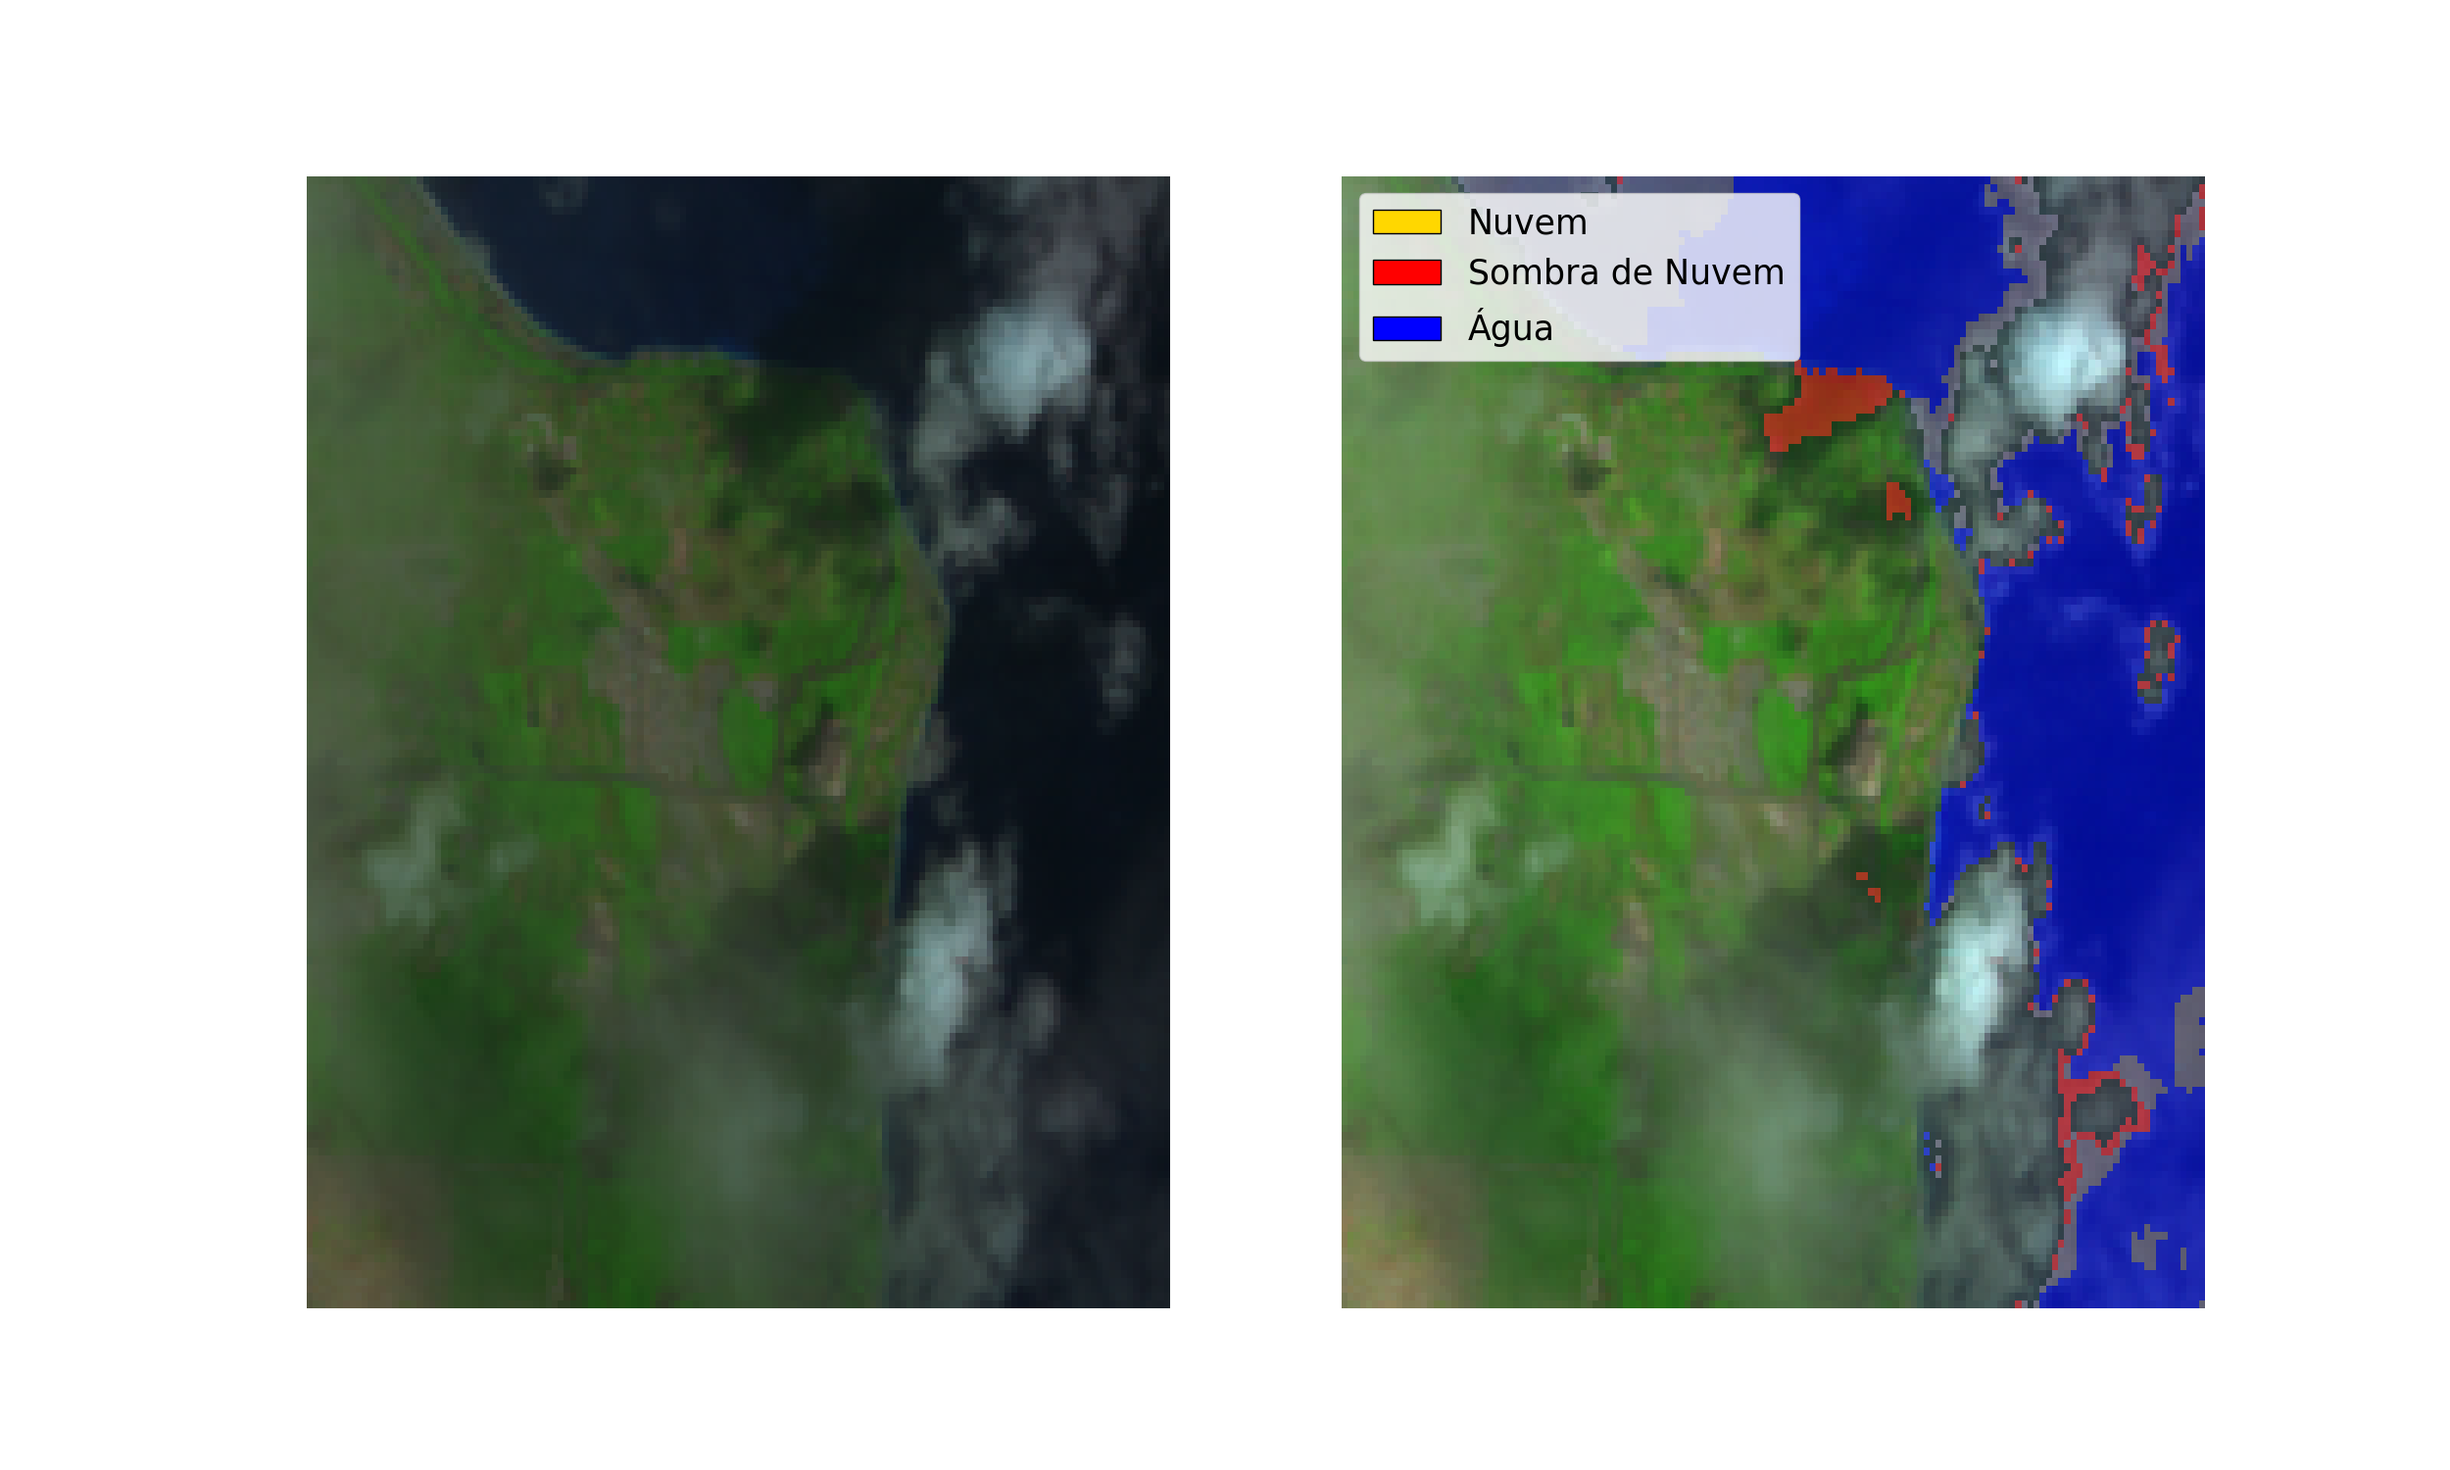
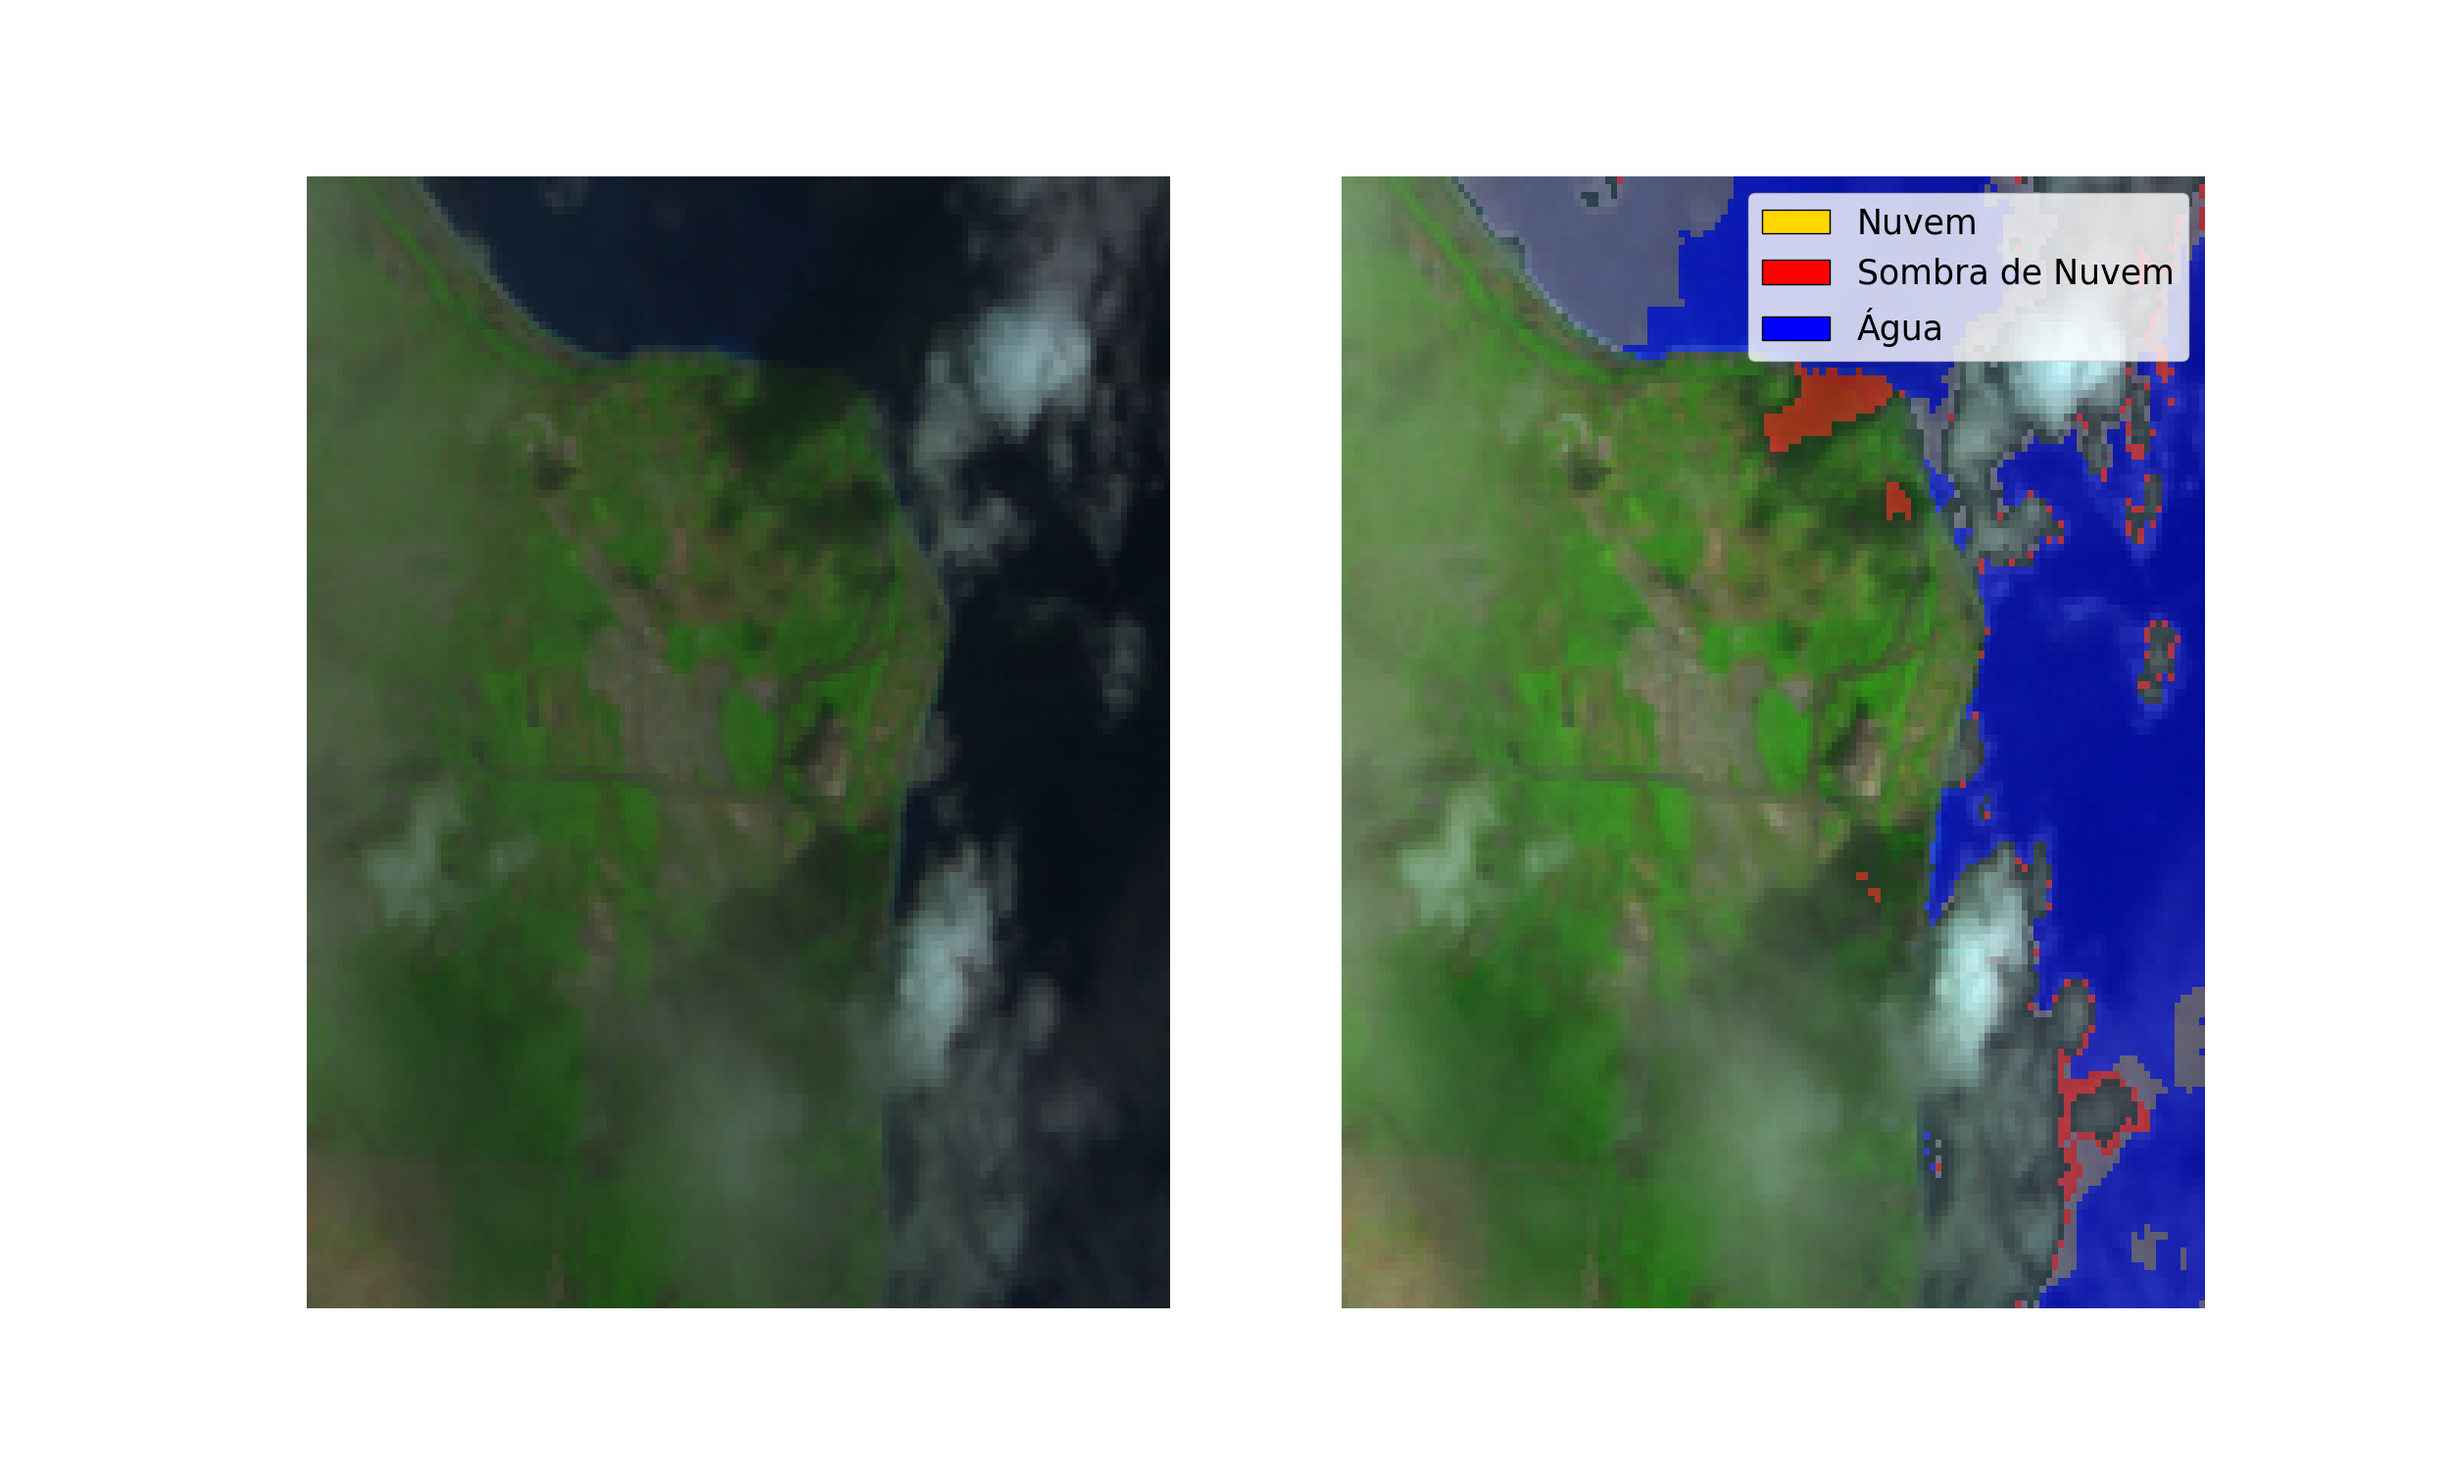
test main

Changed region(s): [[0.5304, 0.1227, 0.9048, 0.2453]]

diff --git a/main.py b/main.py
@@ -20,9 +20,6 @@ class Fmask():
         with rasterio.open(tif_file) as src:
             bands = src.read()
 
-        # for b in bands:
-        #     print(b)
-
         # print("Bands: ", len(bands))
         return bands
 
@@ -307,10 +304,11 @@ class Fmask():
 
         # Eq. 15
         maximum = np.maximum(np.abs(modified_ndvi), np.abs(modified_ndsi))
-        variability_prob = 1 - np.maximum(maximum, whiteness)
+        # variability_prob = 1 - np.maximum(maximum, whiteness)
+        variability_prob = 1 - maximum
 
         # Eq. 16
-        l_cloud_prob = l_temperature_prob #* variability_prob
+        l_cloud_prob = l_temperature_prob * variability_prob
 
         return l_cloud_prob, t_low, t_high
 
@@ -353,7 +351,11 @@ class Fmask():
                                                            clear_sky_land=clear_sky_land)
         # Eq. 17
         land_threshold = np.percentile(l_cloud_prob[clear_sky_land], 82.5) + 0.2
-
+        # land_threshold = np.percentile(l_cloud_prob[clear_sky_land], 10) #+ 0.2
+        # land_threshold = np.percentile(l_cloud_prob[clear_sky_land], 92.5) + 0.2
+        # land_threshold = np.percentile(l_cloud_prob[clear_sky_land], 42.5) + 0.2
+        print("Land threshold: ", land_threshold)
+        print("Land cloud prob: ", l_cloud_prob)
         # Eq. 18 
         # Clouds above water
         # pcl_1 = pcp & water_test & (w_cloud_prob > 0.5)
@@ -369,8 +371,13 @@ class Fmask():
         pcl_3 = np.logical_and(l_cloud_prob > 0.99, np.logical_not(water_test))
         # pcl_3 = (l_cloud_prob > 0.99) & (water_test == False)
 
-        # 
+        # temperature test
         pcl_4 = bt < (t_low - 35)
+
+        # plt.figure()
+        # plt.subplot(1, 2, 1)
+        # plt.imshow(bt)
+        # plt.show()
 
         # pcl =  np.logical_or(np.logical_or(np.logical_or(pcl_1, pcl_2), pcl_3), pcl_4)
         pcl = pcl_1 | pcl_2 | pcl_3 | pcl_4
@@ -396,6 +403,7 @@ class Fmask():
                             ndvi=ndvi,
                             ndsi=ndsi,
                             whiteness=whiteness)
+        
         
         # Pass Two returns potencial cloud layer
         pcl = self.pass_two(b5=b5,
@@ -423,7 +431,7 @@ class Fmask():
         seed_point = (0, 0)
 
         # Aplicar o flood-fill usando ImageDraw.floodfill
-        ImageDraw.floodfill(inverted_image, xy=seed_point, value=255, thresh=10)
+        ImageDraw.floodfill(inverted_image, xy=seed_point, value=255, thresh=00)
 
         # Inverter a imagem de volta ao original
         filled_image = Image.fromarray(255 - np.array(inverted_image))
@@ -437,11 +445,15 @@ class Fmask():
         return result_image
 
     def detect_shadows(self, b4: np.ndarray, water_test: np.ndarray):
-       flood_fill_b4 = self.flood_fill_transformation(b4)
-       # PCSL(Potential Cloud Shadow Layer) test       
-    #    return flood_fill_b4 - b4 > 0.02
-    #    print(b4.max())
-       return (flood_fill_b4 - b4 < 50) & np.logical_not(water_test)
+        flood_fill_b4 = self.flood_fill_transformation(b4)
+        # PCSL(Potential Cloud Shadow Layer) test       
+        # return flood_fill_b4 - b4 > 0.02
+        # fig = plt.figure(figsize=(25, 15))
+        # plt.imshow(flood_fill_b4, cmap='gray')
+        # plt.title("Flood fill")
+        # plt.show()
+
+        return (flood_fill_b4 - b4 < 50) & np.logical_not(water_test)
 
     def save_tif(self, band: np.ndarray, tif_file: str, output_file: str) -> None:
         """_summary_
@@ -469,8 +481,6 @@ class Fmask():
         """
 
         fig = plt.figure(figsize=(25, 15))
-
-        fig = plt.figure(figsize=(25, 15))
         plt.subplot(1, 2, 1)
         plt.imshow(color_composite, interpolation='nearest', aspect='auto')
         plt.axis(False)
@@ -486,7 +496,7 @@ class Fmask():
 
         legend_elements = [Patch(facecolor=colors[i], edgecolor='black', label=f'{classes[i]}') for i in range(len(colors))]
 
-        plt.legend(handles=legend_elements, loc='upper left', fontsize=25)
+        plt.legend(handles=legend_elements, loc='upper right', fontsize=25)
         plt.axis(False)
 
         fig.savefig(save_dir+name, dpi=fig.dpi)
@@ -558,8 +568,8 @@ if __name__ == "__main__":
     # inputs = ['./2004/seixas_20040905.tif']
     save_dir = "./results/"
 
-    # inputs = ['./seixas_20041124.tif']
-    # save_dir = "./"
+    inputs = ['./seixas_20041124_complete.tif']
+    save_dir = "./"
     
     fmask = Fmask()
 
